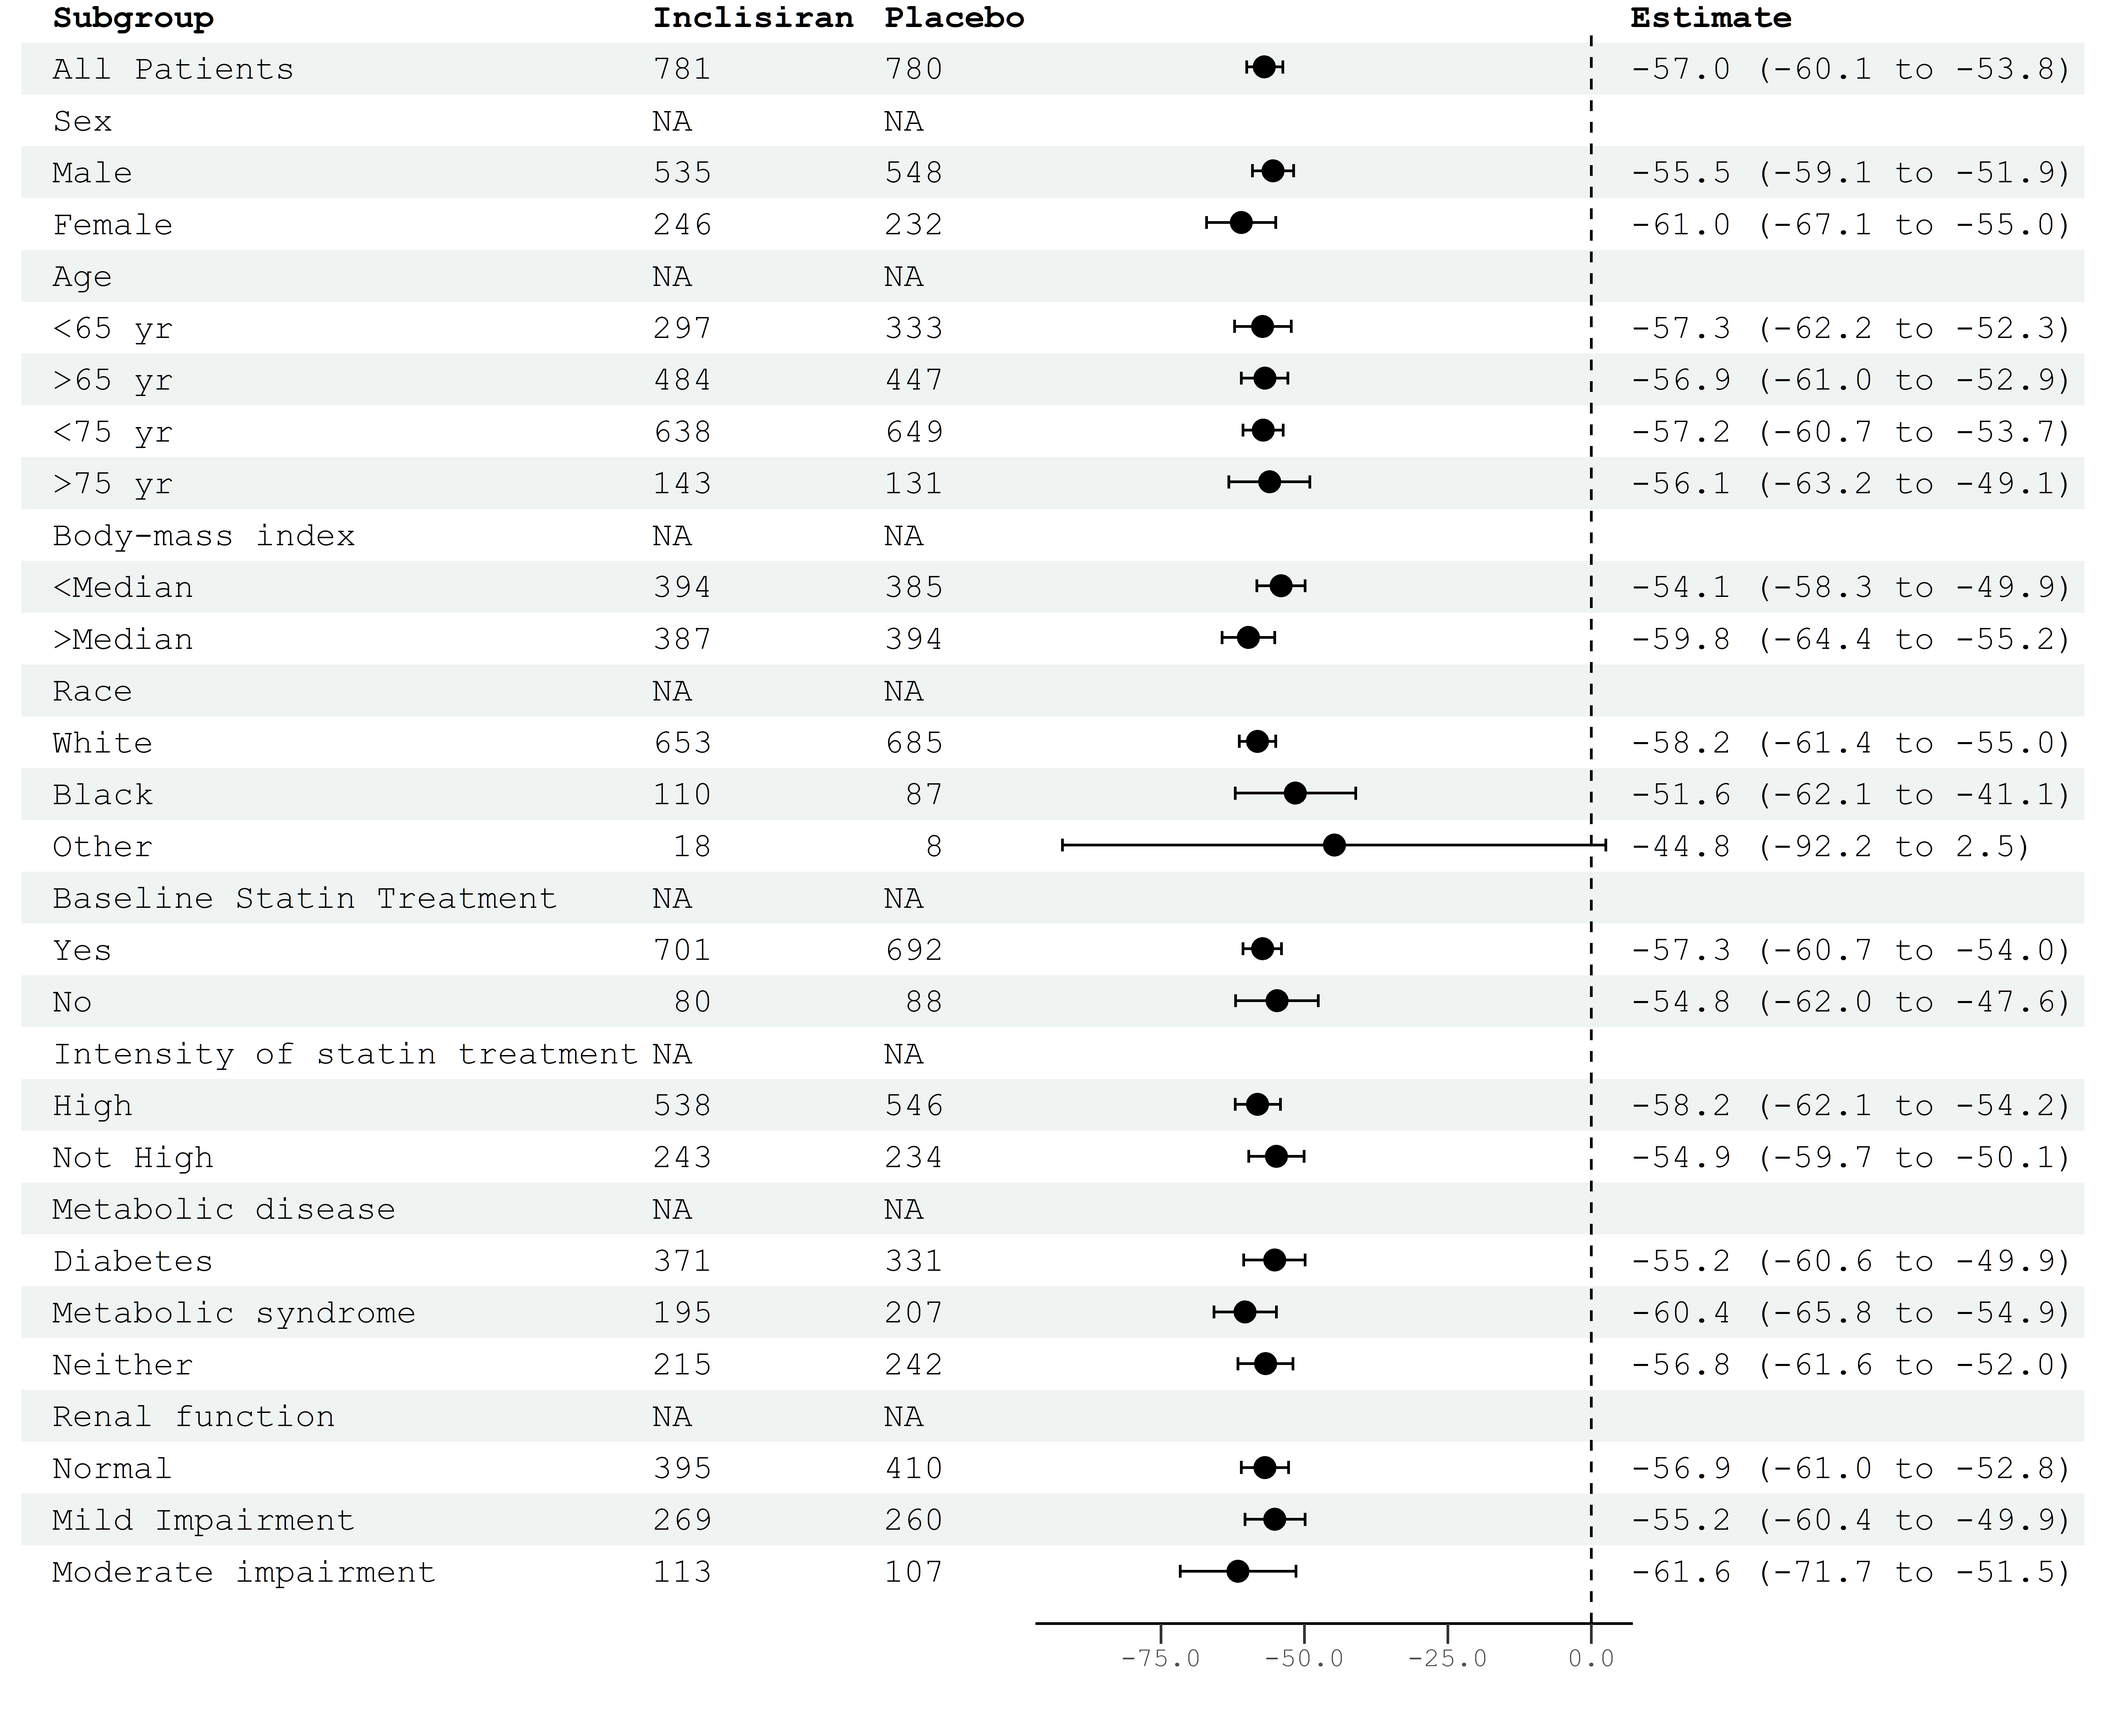
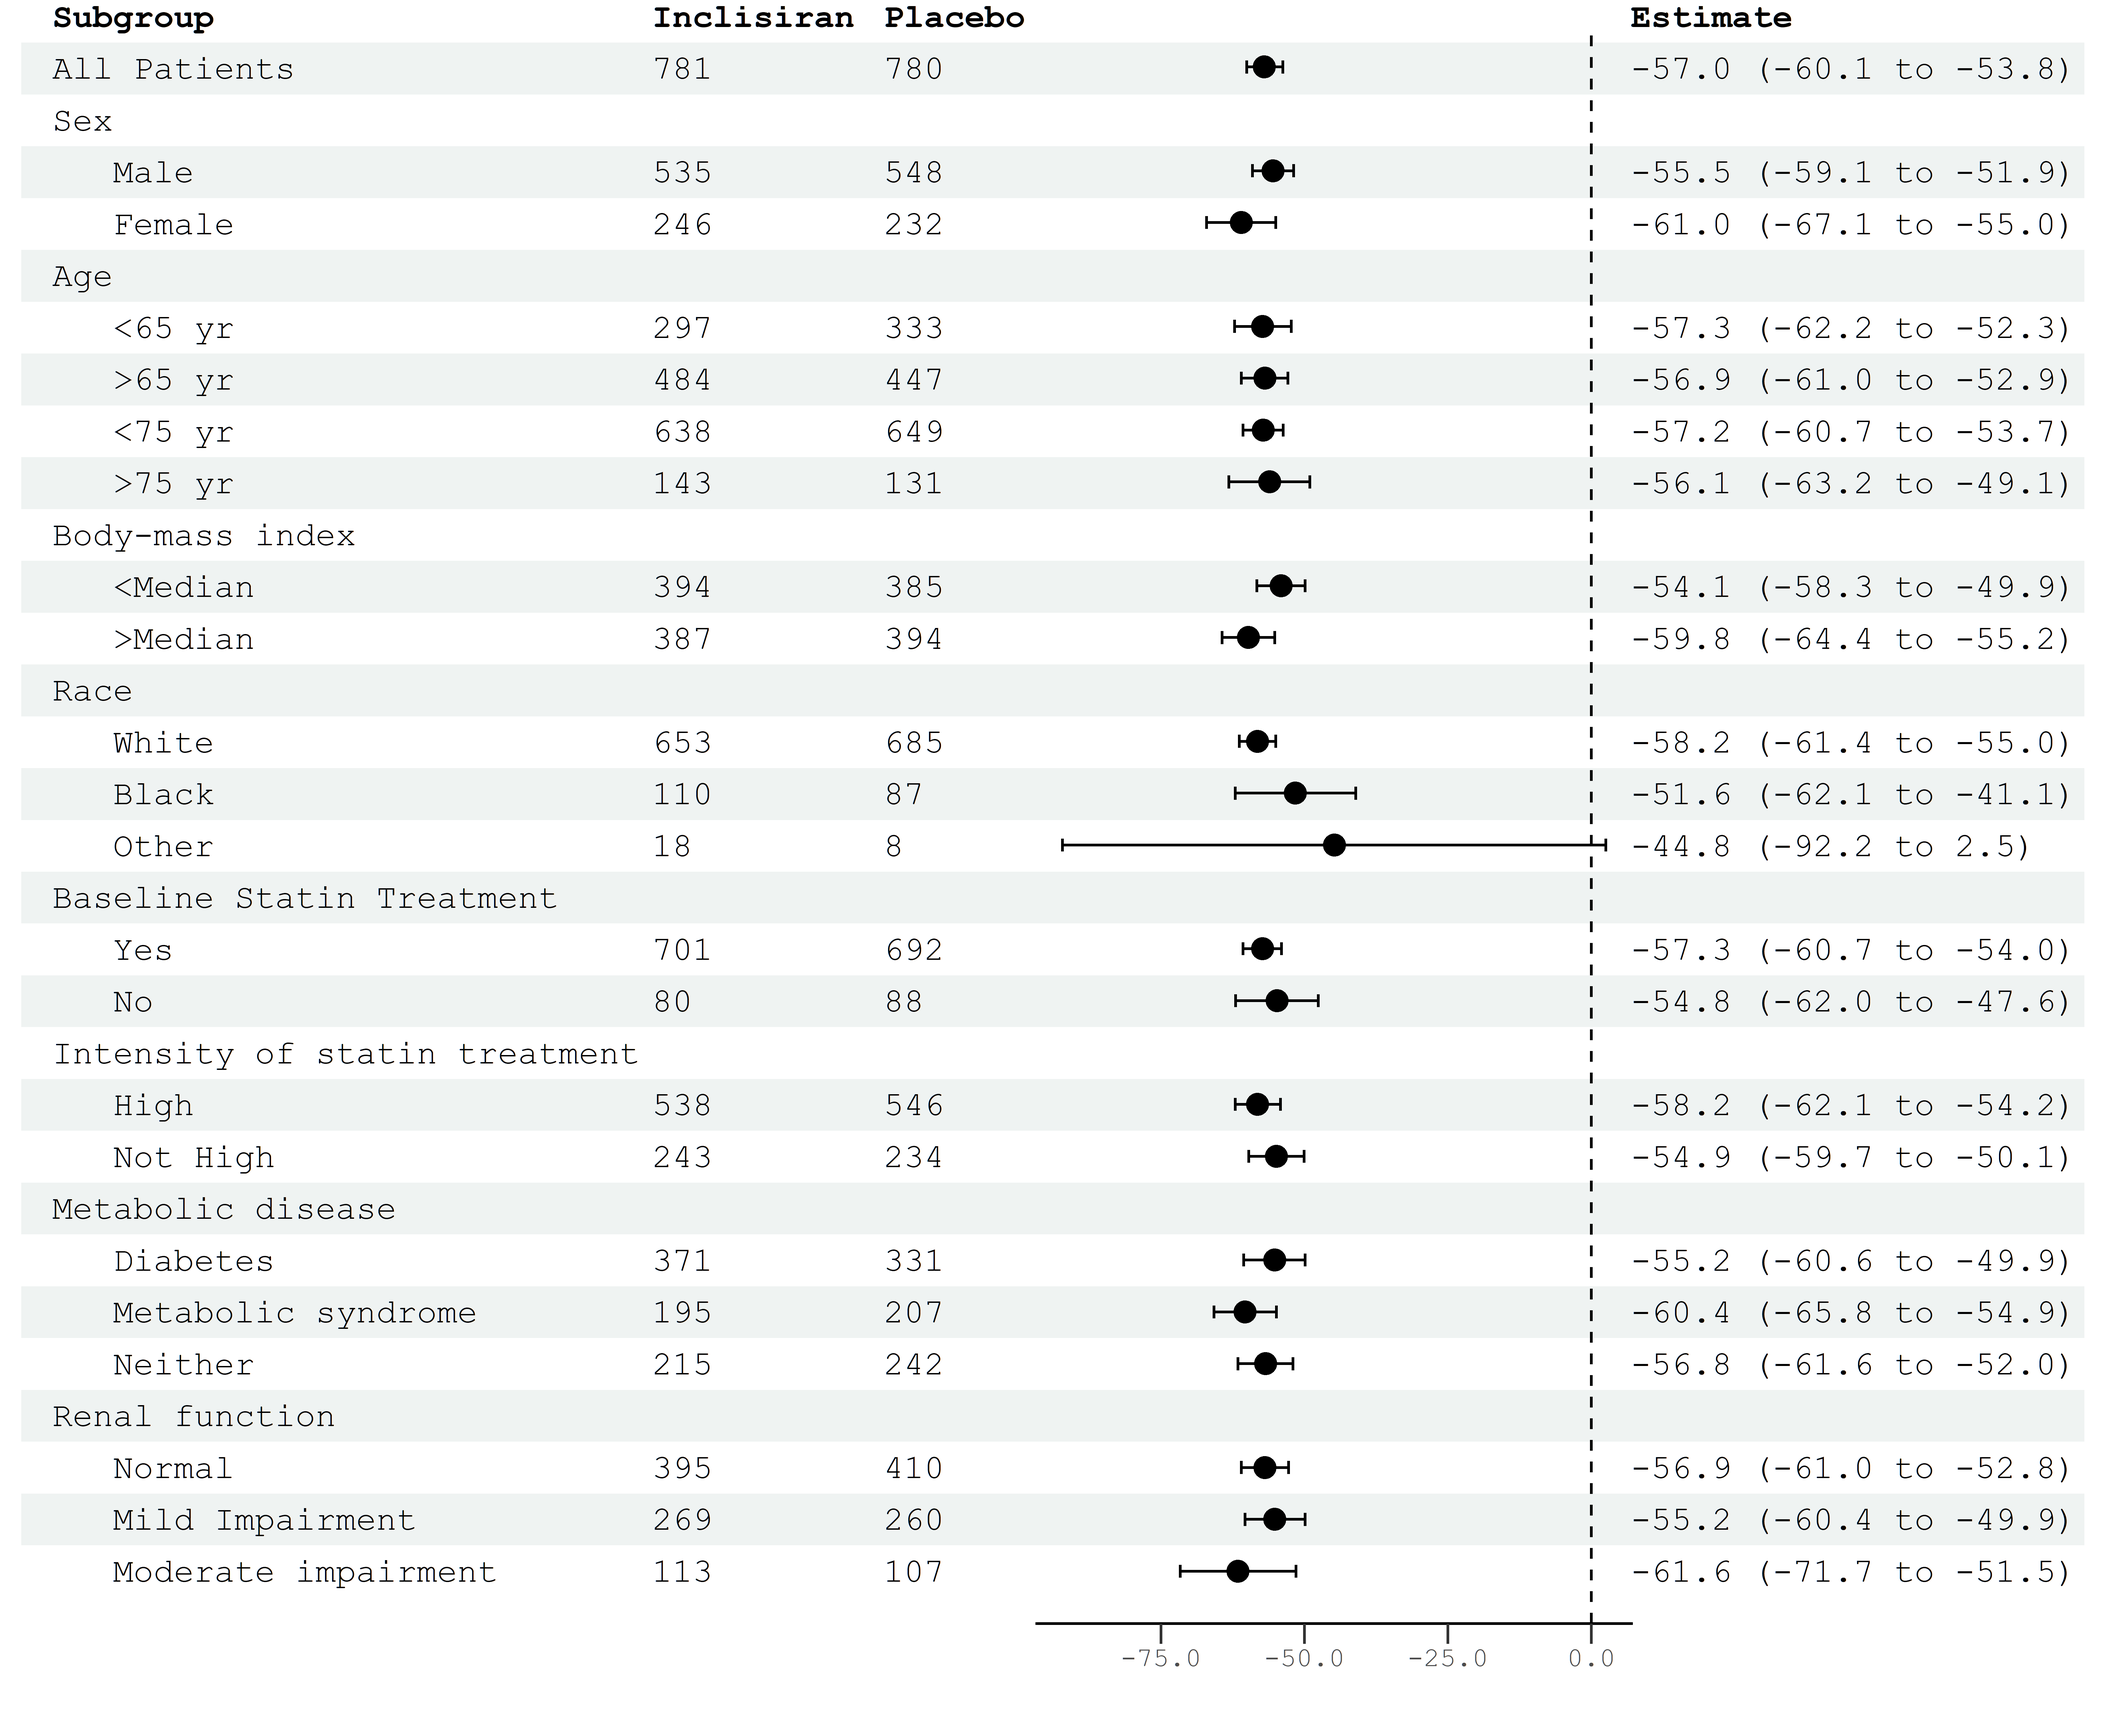
different sizes of table included in the readme

diff --git a/README.md b/README.md
@@ -40,6 +40,15 @@ library(forestable)
 
 table <- readxl::read_excel(here::here("inst/extdata/example_figure_data.xlsx"))
 
+# indent the subgroup if there is a number in the placebo column
+table$Subgroup <- ifelse(is.na(table$Placebo), 
+                         table$Subgroup,
+                         paste0("   ", table$Subgroup))
+
+# remove indent of the first row
+table$Subgroup[1] <- "All Patients"
+
+# use forestable to create the table with forest plot
 forestable(left_side_data = table[,1:3],
            estimate = table$Estimate,
            ci_low = table$`CI low`,
@@ -55,6 +64,40 @@ knitr::include_graphics(here::here("man/figures/forestable_plot.png"))
 ```
 
 <img src="D:/Projects/forestable/man/figures/forestable_plot.png" width="100%" />
+
+Forestable handles the alignment of the graph and the table
+automatically, so figures with fewer rows or columns should work by
+simply passing a smaller data frame to the function:
+
+``` r
+forestable(left_side_data = table[1:12,1:3],
+           estimate = table$Estimate[1:12],
+           ci_low = table$`CI low`[1:12],
+           ci_high = table$`CI high`[1:12],
+           display = FALSE,
+           file_path = here::here("man/figures/fewer_rows.png"))
+#> Warning: Removed 3 rows containing missing values (geom_point).
+#> Warning: Removed 3 rows containing missing values (geom_errorbarh).
+
+knitr::include_graphics(here::here("man/figures/fewer_rows.png"))
+```
+
+<img src="D:/Projects/forestable/man/figures/fewer_rows.png" width="100%" />
+
+``` r
+forestable(left_side_data = table[,1],
+           estimate = table$Estimate,
+           ci_low = table$`CI low`,
+           ci_high = table$`CI high`,
+           display = FALSE,
+           file_path = here::here("man/figures/fewer_cols.png"))
+#> Warning: Removed 8 rows containing missing values (geom_point).
+#> Warning: Removed 8 rows containing missing values (geom_errorbarh).
+
+knitr::include_graphics(here::here("man/figures/fewer_cols.png"))
+```
+
+<img src="D:/Projects/forestable/man/figures/fewer_cols.png" width="100%" />
 
 ## To Do
 
